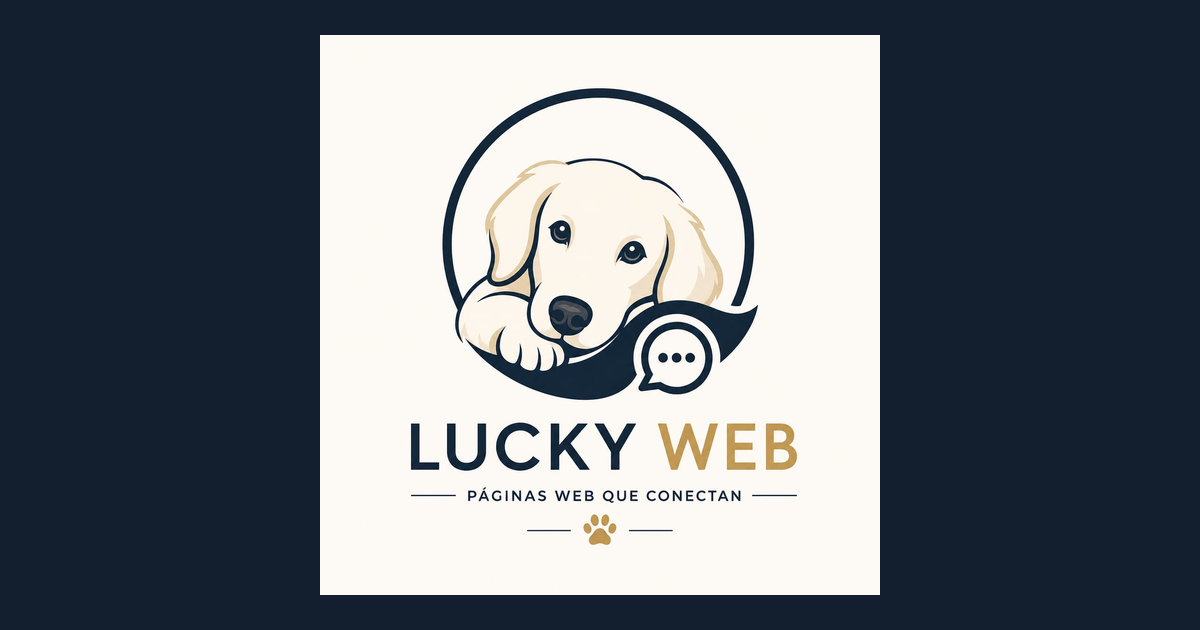
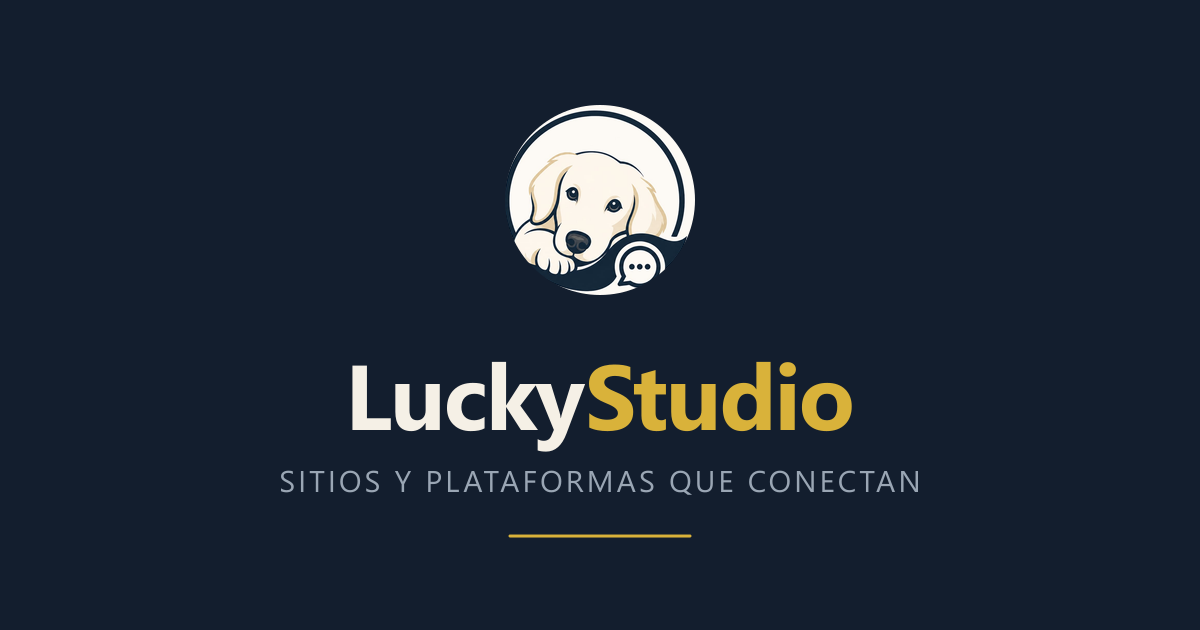
feat: rebrand a Lucky Studio
"Web" encasillaba justo cuando el catálogo se amplía a plataformas y
automatizaciones, y compite en un nombre saturado. "Lucky" —el perro del
logo— es la parte que diferencia y la que se conserva.

- El wordmark pasa a leerse de SITE.nameParts, así que renombrar la marca
  vuelve a ser un solo cambio en la config y no una búsqueda por el código.
- Tagline ampliada a "Sitios y plataformas que conectan": la del logo
  original hablaba solo de páginas web.
- Título SEO acorde al rango real de trabajo.
- Dominio provisorio luckystudio.com, pendiente de registro.

La tarjeta Open Graph ahora se compone en el script en lugar de reutilizar
el arte original, que lleva el wordmark "LUCKY WEB" impreso: se recorta el
isotipo en círculo sobre navy y se le agrega el nombre actual. Se deja de
generar logo-full.png por el mismo motivo. El isotipo del perro no cambia.

Claude-Session: https://claude.ai/code/session_01CL7xiaKfquUPhAWk5Y5BKQ

diff --git a/components/brand-logo.tsx b/components/brand-logo.tsx
@@ -3,7 +3,7 @@ import { SITE } from "@/lib/site-config"
 import { cn } from "@/lib/utils"
 
 /**
- * Isotipo de Luckywebs dentro de un badge circular crema.
+ * Isotipo de Lucky Studio dentro de un badge circular crema.
  *
  * El arte original tiene fondo crema, así que el badge coincide con él y el
  * borde del recorte no se percibe.
@@ -33,11 +33,16 @@ export function BrandMark({ className }: { className?: string }) {
   )
 }
 
-/** Wordmark tipográfico: "Lucky" en crema, "webs" en dorado. */
+/**
+ * Wordmark tipográfico: la primera mitad en crema, la segunda en dorado.
+ * Las dos partes salen de la config para que renombrar la marca sea un solo
+ * cambio y no una búsqueda por todo el código.
+ */
 export function BrandWordmark({ className }: { className?: string }) {
   return (
     <span className={cn("font-bold tracking-tight", className)}>
-      Lucky<span className="text-primary">webs</span>
+      {SITE.nameParts.first}
+      <span className="text-primary">{SITE.nameParts.second}</span>
     </span>
   )
 }

diff --git a/components/navbar.tsx b/components/navbar.tsx
@@ -5,7 +5,7 @@ import { Menu, MessageCircle } from "lucide-react"
 import { Sheet, SheetContent, SheetTitle, SheetTrigger } from "@/components/ui/sheet"
 import { BrandLogo, BrandWordmark } from "@/components/brand-logo"
 import { useScrollSpy, useScrolled } from "@/hooks/use-scroll-spy"
-import { NAV_LINKS, waLink } from "@/lib/site-config"
+import { NAV_LINKS, SITE, waLink } from "@/lib/site-config"
 import { cn } from "@/lib/utils"
 
 const SECTION_IDS = NAV_LINKS.map((l) => l.href.slice(1))
@@ -35,7 +35,7 @@ export function Navbar({ onMenuOpenChange }: { onMenuOpenChange?: (open: boolean
         aria-label="Principal"
         className="mx-auto flex h-20 max-w-7xl items-center justify-between px-4 sm:px-6 lg:px-8"
       >
-        <a href="#inicio" className="rounded-lg" aria-label="Luckywebs, ir al inicio">
+        <a href="#inicio" className="rounded-lg" aria-label={`${SITE.name}, ir al inicio`}>
           <BrandLogo markClassName="size-12 sm:size-14" />
         </a>
 

diff --git a/lib/site-config.ts b/lib/site-config.ts
@@ -4,12 +4,19 @@
  */
 
 export const SITE = {
-  name: "Luckywebs",
-  tagline: "Páginas web que conectan",
+  name: "Lucky Studio",
+  /** Las dos mitades del wordmark: "Lucky" en crema, "Studio" en dorado. */
+  nameParts: { first: "Lucky", second: "Studio" },
+  /**
+   * Amplía el "páginas web que conectan" del logo original: el estudio hace
+   * también plataformas, y el nombre ya no se limita a la web.
+   */
+  tagline: "Sitios y plataformas que conectan",
   description:
     "Diseñamos y publicamos sitios web y plataformas interactivas para negocios, organismos e instituciones educativas. Rápidos, pensados para el celular y con el contacto a un clic.",
-  // TODO: confirmar dominio definitivo antes del deploy a producción.
-  url: "https://luckywebs.com.ar",
+  // TODO: confirmar tras registrar el dominio. Al 2026-09-02, luckystudio.com
+  // figuraba sin DNS activo.
+  url: "https://luckystudio.com",
   locale: "es_AR",
 } as const
 

diff --git a/components/hero-section.tsx b/components/hero-section.tsx
@@ -5,7 +5,7 @@ import { AnimatePresence, motion } from "framer-motion"
 import { ArrowRight, Check, MessageCircle } from "lucide-react"
 import { BrowserFrame } from "@/components/browser-frame"
 import { useMotionVariants } from "@/lib/motion"
-import { VISIBLE_PROJECTS, projectShot, waLink } from "@/lib/site-config"
+import { SITE, VISIBLE_PROJECTS, projectShot, waLink } from "@/lib/site-config"
 
 const TRUST_POINTS = [
   "Entrega en 7 días",
@@ -140,7 +140,7 @@ export function HeroSection() {
               >
                 <BrowserFrame
                   src={projectShot(current.slug, "desktop")}
-                  alt={`Sitio web de ${current.name} hecho por Luckywebs`}
+                  alt={`Sitio web de ${current.name} hecho por ${SITE.name}`}
                   label={domainOf(current.url)}
                   priority
                   sizes="(min-width: 1024px) 46vw, 92vw"

diff --git a/components/problem-solution-section.tsx b/components/problem-solution-section.tsx
@@ -3,6 +3,7 @@
 import { motion } from "framer-motion"
 import { Check, X } from "lucide-react"
 import { useMotionVariants, VIEWPORT } from "@/lib/motion"
+import { SITE } from "@/lib/site-config"
 
 const WITHOUT = [
   "Tu único canal es un perfil de Instagram",
@@ -68,7 +69,7 @@ export function ProblemSolutionSection() {
             variants={fadeUp}
             className="rounded-2xl border border-primary/35 bg-card p-8"
           >
-            <h3 className="text-lg font-semibold text-primary">Con Luckywebs</h3>
+            <h3 className="text-lg font-semibold text-primary">Con {SITE.name}</h3>
             <ul className="mt-6 space-y-4">
               {WITH.map((item) => (
                 <li key={item} className="flex items-start gap-3">

diff --git a/app/layout.tsx b/app/layout.tsx
@@ -13,7 +13,7 @@ const inter = Inter({
 export const metadata: Metadata = {
   metadataBase: new URL(SITE.url),
   title: {
-    default: `${SITE.name} — Páginas web para negocios en Tucumán`,
+    default: `${SITE.name} — Sitios web y plataformas a medida en Tucumán`,
     template: `%s | ${SITE.name}`,
   },
   description: SITE.description,
@@ -24,7 +24,7 @@ export const metadata: Metadata = {
     'tienda online Argentina',
     'landing page para emprendedores',
     'SEO local Tucumán',
-    'Luckywebs',
+    'Lucky Studio',
   ],
   authors: [{ name: SITE.name }],
   creator: SITE.name,

diff --git a/app/globals.css b/app/globals.css
@@ -4,7 +4,7 @@
 @custom-variant dark (&:is(.dark *));
 
 /**
- * Luckywebs — paleta derivada del logo.
+ * Lucky Studio — paleta derivada del logo.
  *
  *   navy   #131E2E  fondo
  *   dorado #C9A227  acento único (CTAs, estados activos, destacados)
